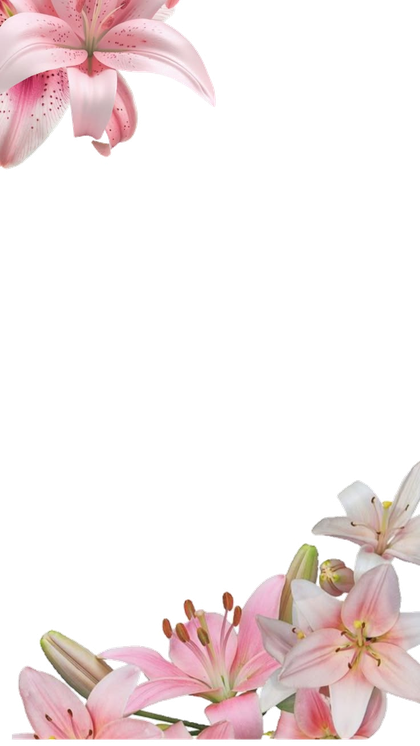
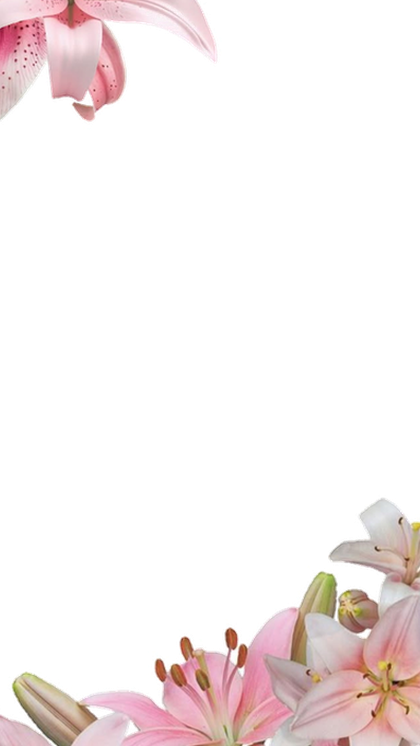
Bleed flower overlay to the frame edges, recenter photo vertically
Zoom and center-crop the flower PNG so its petals reach the true
corners instead of stopping ~40px short at the bottom-right, which
was leaving a visible gap of page background inside the rounded
corner. Also switch the hero grid back to align-items: center with
extra top padding on the photo column, so the photo sits vertically
centered against the text block instead of hugging the top.

Changed region(s): [[0.0, 0.6166, 1.0, 1.0], [0.0, 0.0, 0.5262, 0.2466]]

diff --git a/styles.css b/styles.css
@@ -179,7 +179,7 @@ nav.scrolled {
 
 .hero-grid {
     display: grid; grid-template-columns: 1fr 1fr;
-    gap: 40px; align-items: start;
+    gap: 40px; align-items: center;
 }
 
 .hero-content {
@@ -189,7 +189,7 @@ nav.scrolled {
 
 .hero-photo-wrap {
     position: relative; z-index: 1; display: flex; justify-content: center;
-    padding-top: calc(var(--nav-height) + 24px);
+    padding-top: calc(var(--nav-height) + 48px);
 }
 
 .hero-photo-frame {
@@ -595,7 +595,6 @@ footer { padding: 32px 0; border-top: 1px solid var(--border); background: var(-
     .contact-grid { grid-template-columns: 1fr; gap: 48px; }
     .hero-blob-2 { right: -180px; }
     .hero-grid { grid-template-columns: 1fr 320px; gap: 24px; }
-    .hero-photo-wrap { padding-top: calc(var(--nav-height) + 8px); }
     .hero-photo-frame { max-width: 320px; }
 }
 